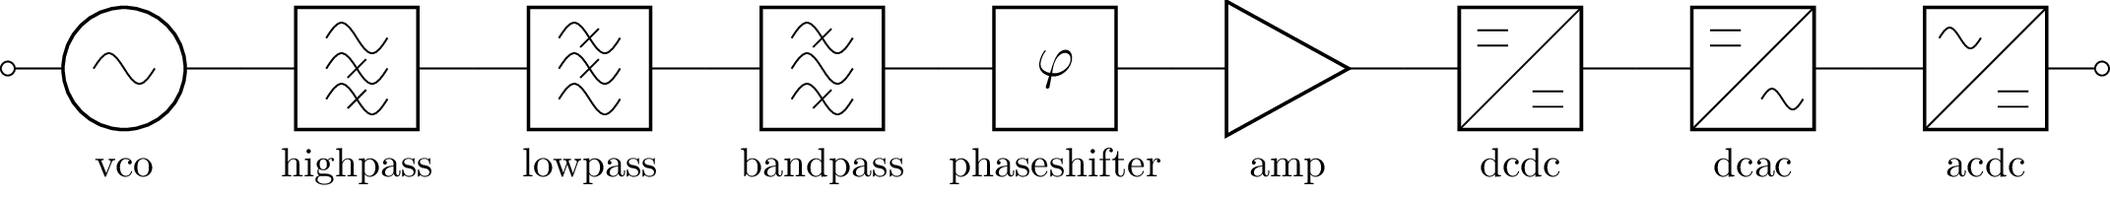
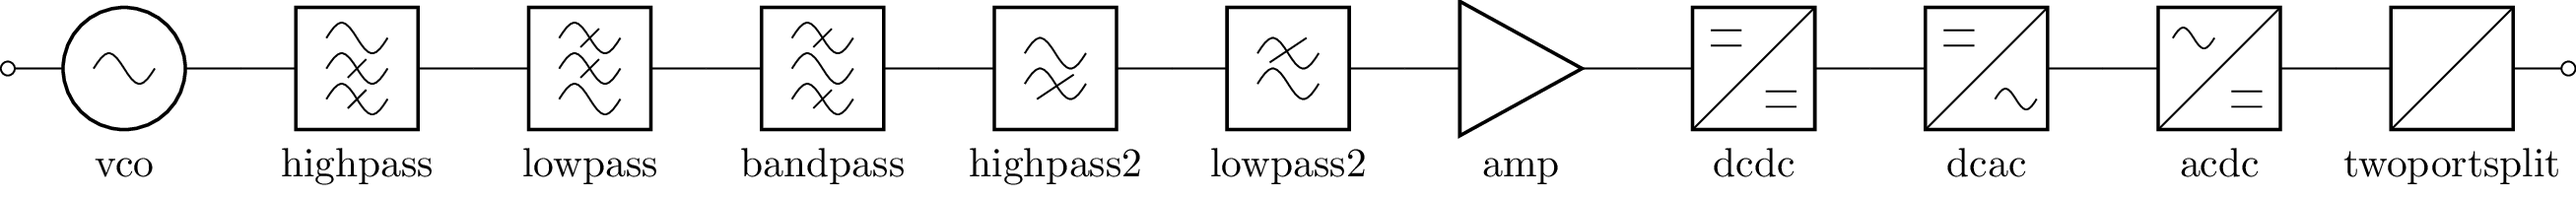
Add more blocks

Changed region(s): [[0.4622, 0.0, 1.0, 0.6866], [0.0, 0.0, 0.4314, 0.6866], [0.0308, 0.7463, 1.0, 0.9254]]

diff --git a/lcapy/schemcpts.py b/lcapy/schemcpts.py
@@ -1570,17 +1570,17 @@ class BL(Bipole):
 
     tikz_cpt = 'twoport'
 
-    # TODO: Circuitikz has many more blocks
-    kinds = {'vco': 'vco', 'bandpass': 'bandpass', 'bandstop': 'bandstop',
-             'highpass': 'highpass', 'lowpass': 'lowpass',
-             'allpass': 'allpass', 'highpass2': 'highpass2', 'lowpass2': 'lowpass2',
-             'adc': 'adc', 'dac': 'dac', 'dsp': 'dsp', 'fft': 'fft',
-             'amp': 'amp', 'vamp': 'vamp',
-             'phaseshifter': 'phaseshifter', 'vphaseshifter': 'vphaseshifter',
-             'piattenuator': 'piattenuator', 'vpiattenuator': 'vpiattenuator',
-             'tattenuator': 'tattenuator', 'vtattenuator': 'vtattenuator',
-             'dcdc': 'sdcdc', 'dcac': 'sdcac', 'acdc': 'sacdc',
-             'detector': 'detector'}
+    kinds = {'vco': 'vco', 'bandpass': 'bandpass', 'bandstop':
+             'bandstop', 'highpass': 'highpass', 'lowpass': 'lowpass',
+             'allpass': 'allpass', 'highpass2': 'highpass2',
+             'lowpass2': 'lowpass2', 'adc': 'adc', 'dac': 'dac',
+             'dsp': 'dsp', 'fft': 'fft', 'amp': 'amp', 'vamp': 'vamp',
+             'phaseshifter': 'phaseshifter', 'vphaseshifter':
+             'vphaseshifter', 'piattenuator': 'piattenuator',
+             'vpiattenuator': 'vpiattenuator', 'tattenuator':
+             'tattenuator', 'vtattenuator': 'vtattenuator', 'dcdc':
+             'sdcdc', 'dcac': 'sdcac', 'acdc': 'sacdc', 'detector':
+             'detector', 'twoport': 'twoport', 'twoportsplit': 'twoportsplit'}
 
 
 class C(Bipole):

diff --git a/doc/schematics.rst b/doc/schematics.rst
@@ -303,6 +303,7 @@ Batteries
 .. image:: examples/schematics/batteries.png
    :width: 3cm
 
+.. _blocks:
 
 Blocks
 ------
@@ -310,12 +311,14 @@ Blocks
 .. literalinclude:: examples/schematics/blocks.sch
 
 .. image:: examples/schematics/blocks.png
-   :width: 14cm
+   :width: 18cm
 
 .. literalinclude:: examples/schematics/blocks2.sch
 
 .. image:: examples/schematics/blocks2.png
-   :width: 14cm
+   :width: 18cm
+
+Note, the block names match those used by Circuitikz.
 
 
 Capacitors
@@ -1016,11 +1019,12 @@ Block diagrams
 ==============
 
 Block diagrams can be constructed with the following components:
- - `TF` transfer function
- - `SPpp`, `SPpm`, `SPppp`, `SPpmm`, `SPppm` summing points
- - `MX` mixer
- - `box` rectangular box
- - `circle` circle (or ellipse)
+ - `BL` -- block (see :ref:`blocks`)
+ - `TF` -- transfer function
+ - `SPpp`, `SPpm`, `SPppp`, `SPpmm`, `SPppm` -- summing points
+ - `MX` -- mixer
+ - `box` -- rectangular box
+ - `circle` -- circle (or ellipse)
 
 Here's an example showing negative feedback:
 
